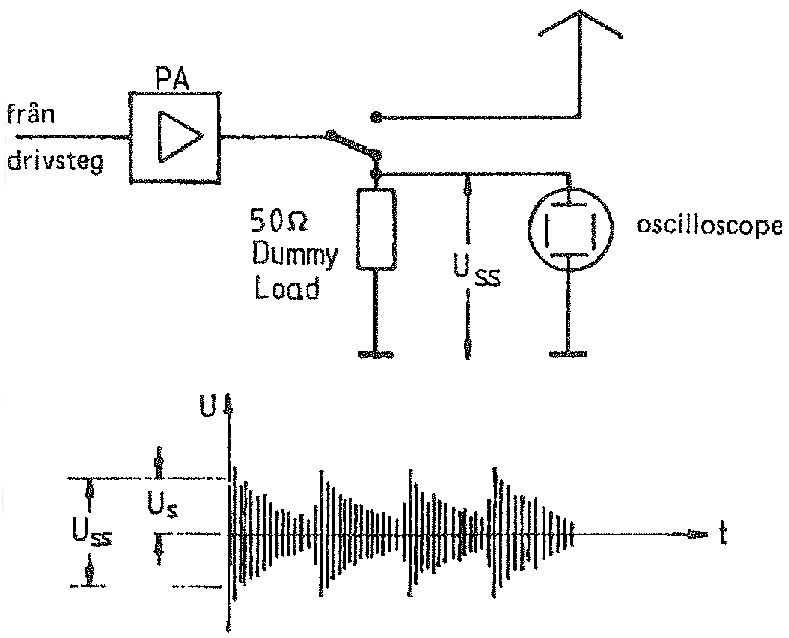
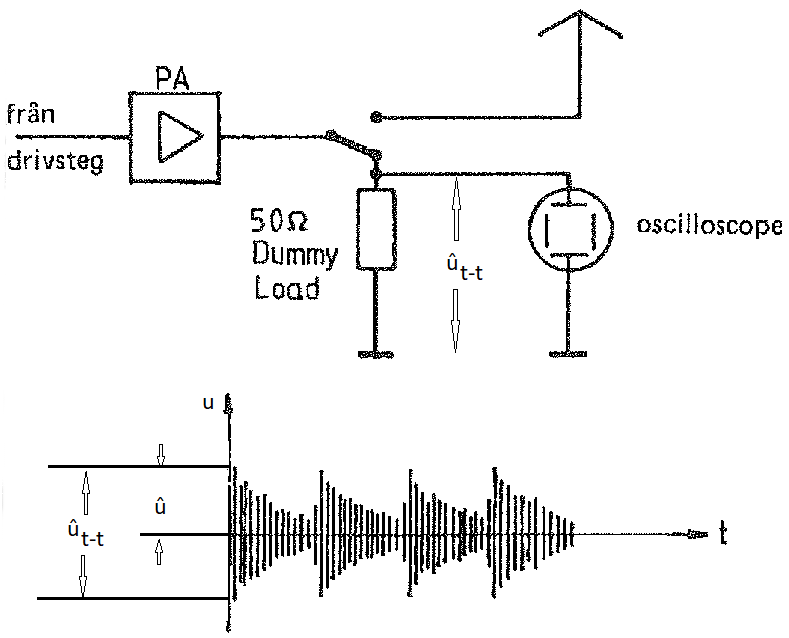
SM7NTJ PEP konsolidering till 3.4.10 från 1.12. #130 #132

diff --git a/koncept/chapter3-4.tex b/koncept/chapter3-4.tex
@@ -508,40 +508,72 @@ effekt för uppvärmning av rörens katoder samt höga anodspänningar, som
 även strömförsörjningen för ett slutsteg med elektronrör mer
 komplicerad och omfångsrik.
 
-\subsection{Bestämning av PEP-effekten}
+\subsection{Toppvärdeseffekt P.E.P.}
+\textbf{HAREC a.\ref{HAREC.a.1.9.6}\label{myHAREC.a.1.9.6}}
+\index{toppvärdeseffekt}
+\index{effekt!toppvärdes}
+\index{P.E.P.}
+\index{effekt!P.E.P.}
 \index{PEP-effekt}
 \index{förstärkare!PEP-effekt}
 
+Uteffekten från en sändare kan mätas över en konstlast (dummy load).
+En konstlast är en resistor som kan omsätta sändarens hela effekt till värme.
+
+Med HF-mätprob och en detektordiod eller en HF-voltmeter kan man mäta
+effektivvärdet på spänningen över konstlasten och beräkna uteffekten med
+formeln
+
+\(P_{ut} = \dfrac{U^2}{R}\)
+
+U = HF-spänningens effektivvärde
+R = resistansen i konstlasten
+
+\textbf{Beräkning och mätning av PEP-effekt}
+Uteffekten definierad som P.E.P. (Peak Envelope Power) \cite[1.157]{ITU-RR}
+är ''den medeleffekt som matas in i en antennmatarledning under det högsta
+effektvärdet inom en frekvenscykel och mätt under normal drift''.
+
+\(P.E.P. = \left[\dfrac{\hat{u}}{\sqrt{2}}\right]^2\dfrac{1}{R} =  \dfrac{\hat{u}^2}{2R}\)
+
+där \(\hat{u}\) är momentanspänningen på den största modulationstoppen.
+
 \begin{wrapfigure}{R}{0.5\textwidth}
-\includegraphics[width=0.5\textwidth]{images/cropped_pdfs/bild_2_3-52.pdf}
-\caption{Bestämning av PEP-effekten}
-\label{fig:BildII3-52}
+	\includegraphics[width=0.5\textwidth]{images/cropped_pdfs/bild_2_3-52.pdf}
+	\caption{Bestämning av PEP-effekten}
+	\label{fig:BildII3-52}
 \end{wrapfigure}
 
-Bild \ref{fig:BildII3-52}
+På grund av SSB~signalens karaktär kan man inte mäta effektivvärdet av
+uteffekten från en SSB-sändare.
 
-Moduleringsspänningens topp-topp\-värde \(U_{SS}\) mäts lämpligen med
-ett oscilloskop. För korrekt belastning vid mätningen används en
-konstlast.
+Bild \ref{fig:BildII3-52} visar hur modulationen för ett \emph{aaah} ser ut
+på ett oscilloskop.
+
+Moduleringsspänningens topp-topp\-värde \(\hat{u}_{t-t}\) mäts lämpligen med ett
+oscilloskop när slutsteget är kopplat till en konstlast.
 
 Med topp-toppvärdet känt kan man med följande formler beräkna
-toppvärdet (amplituden
+toppvärdet (amplituden)
 
-\begin{align*}
-  \text{toppvärdet (amplituden)} \quad
-  U_S & = \frac{U_{SS}}{2}
-  \quad \text{och} \\
-  \text{effektivvärdet} \quad
-  U_{eff} & = \frac{U_S}{\sqrt{2}}
-\end{align*}
+\(
+\begin{array}{lll}
+\text{toppvärdet (amplituden)} &  \quad \hat{u}= & \dfrac{\hat{u}_{t-t}}{2}\\
+& & \\
+\text{effektivvärdet} &\quad  U =& \dfrac{\hat{u}}{\sqrt{2}}
+\end{array}
+\)
 
 Effekten vid moduleringstopparna, s.k. PEP (Peak Envelope Power), kan
-beräknas med följande formler
+beräknas med följande formler.
 
-\begin{align*}
-  P_{PEP} &= \frac{U_{eff}^2}{2R} \quad \text{respektive} \\
-  P_{PEP} &= \frac{U_{SS}^2}{8R}
-\end{align*}
+\(
+\begin{array}{ll}
+P_{PEP} & = \dfrac{U^2}{R} \text{respektive} \\
+&\\
+P_{PEP} & = \dfrac{\hat{u}_{t-t}^2}{8R}
+\end{array}
+\)
 
 \subsection{Linjäritetskontroll vid SSB}
 \textbf{HAREC

diff --git a/koncept/chapter1-9.tex b/koncept/chapter1-9.tex
@@ -400,36 +400,3 @@ alltså ut 8~W. Hur stor verkningsgrad har kabeln uttryckt i procent?
 Lösning:
 
 \(\eta = \dfrac{8}{10} \cdot 100 = 80\ \%\)
-
-\subsection{Toppvärdeseffekt P.E.P.}
-\textbf{HAREC a.\ref{HAREC.a.1.9.6}\label{myHAREC.a.1.9.6}}
-\index{toppvärdeseffekt}
-\index{effekt!toppvärdes}
-\index{P.E.P.}
-\index{effekt!P.E.P.}
-
-Uteffekten från en sändare kan mätas över en konstlast (dummy load).
-En konstlast är en resistor som kan omsätta sändarens hela effekt till värme.
-Med HF-mätprob och en detektordiod eller en HF-voltmeter kan man mäta
-effektivvärdet på spänningen över konstlasten och beräkna uteffekten med
-formeln
-
-\(P_{ut} = \dfrac{U^2}{R}\)
-
-U = HF-spänningens effektivvärde
-R = resistansen i konstlasten
-
-På grund av utsignalens karaktär kan man inte mäta effektivvärdet av uteffekten
-från SSB-sändare.
-Med oscilloskop kan man emellertid mäta utspänningen på den största
-modulationstoppen.
-
-Med detta toppvärde kan man beräkna spänningen över konstlasten.
-
-Uteffekten definierad som P.E.P. (Peak Envelope Power) \cite[1.157]{ITU-RR}
-är ''den medeleffekt som matas in i en antennmatarledning under det högsta
-effektvärdet inom en frekvenscykel och mätt under normal drift''.
-
-\(P.E.P. = \left[\dfrac{\hat{u}}{\sqrt{2}}\right]^2\dfrac{1}{R} =  \dfrac{\hat{u}^2}{2R}\)
-
-där \(\hat{u}\) är momentanspänningen på den största modulationstoppen.
